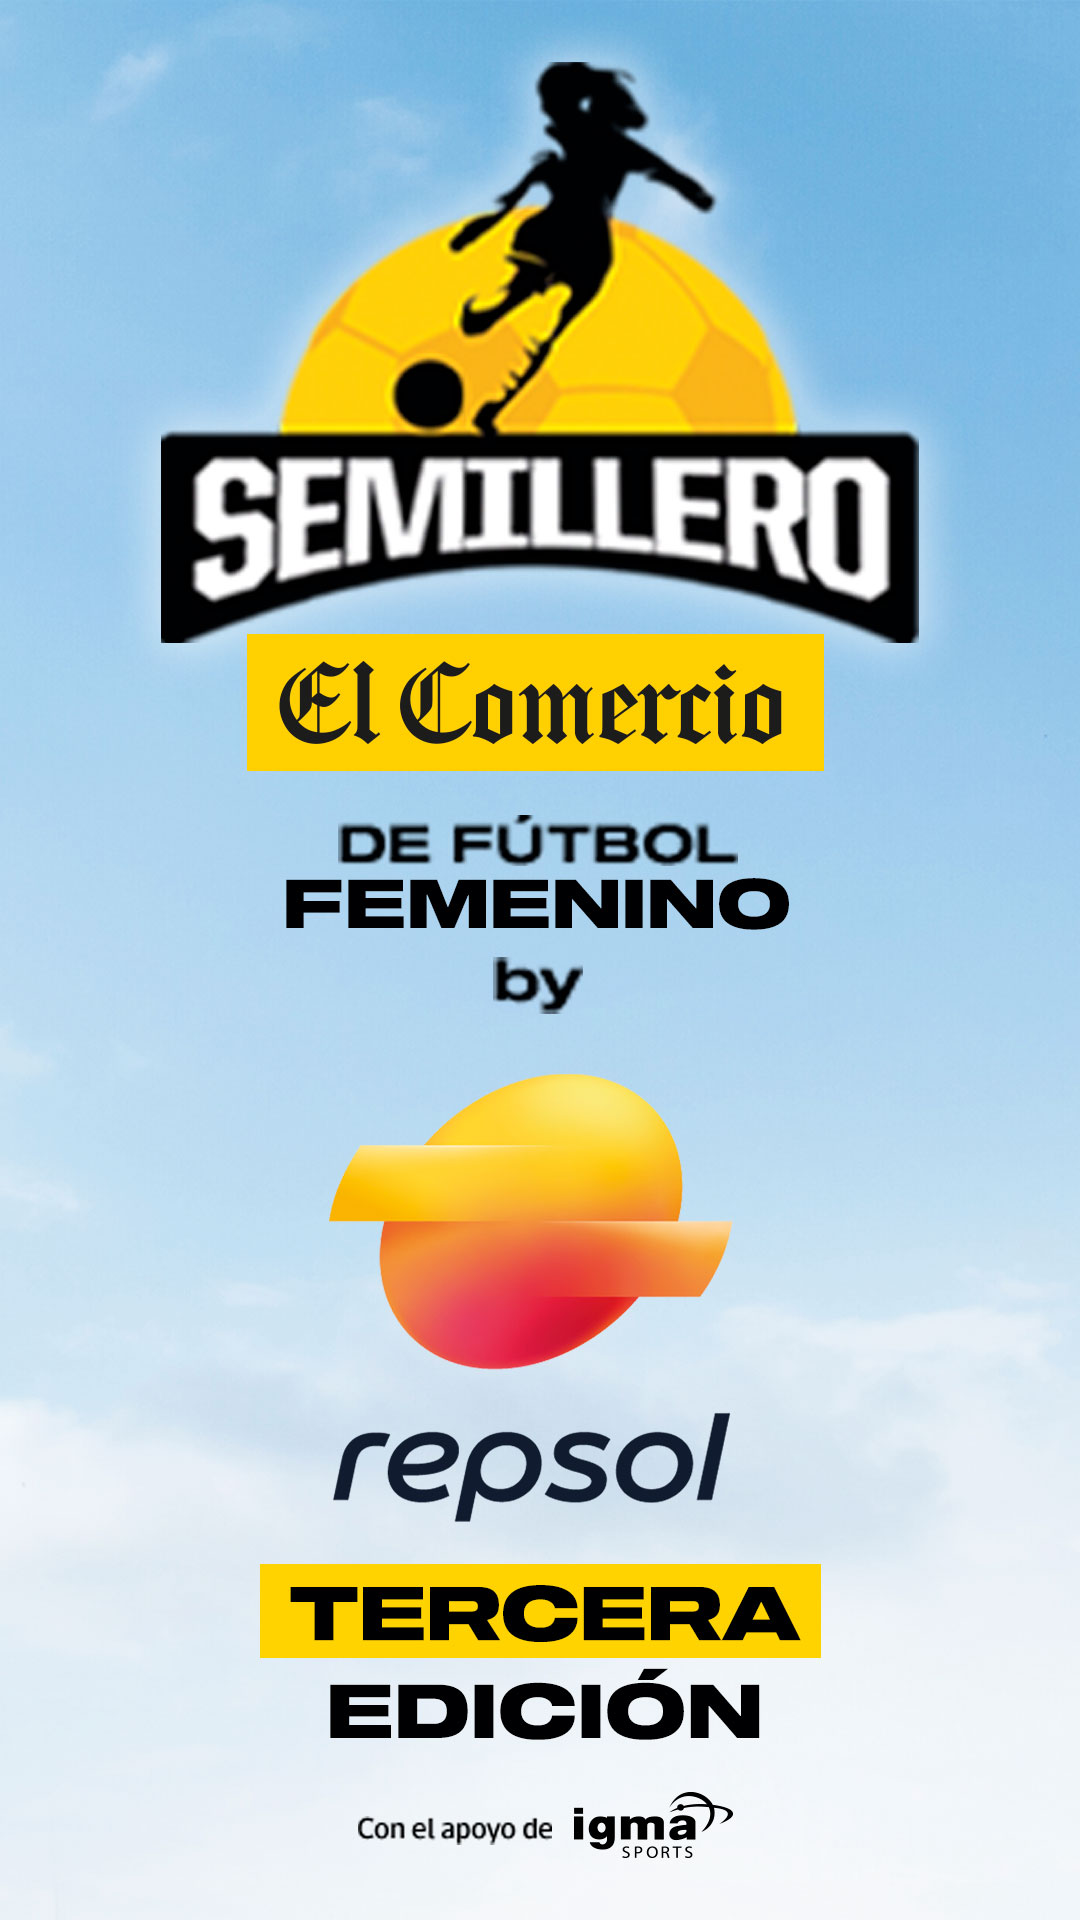
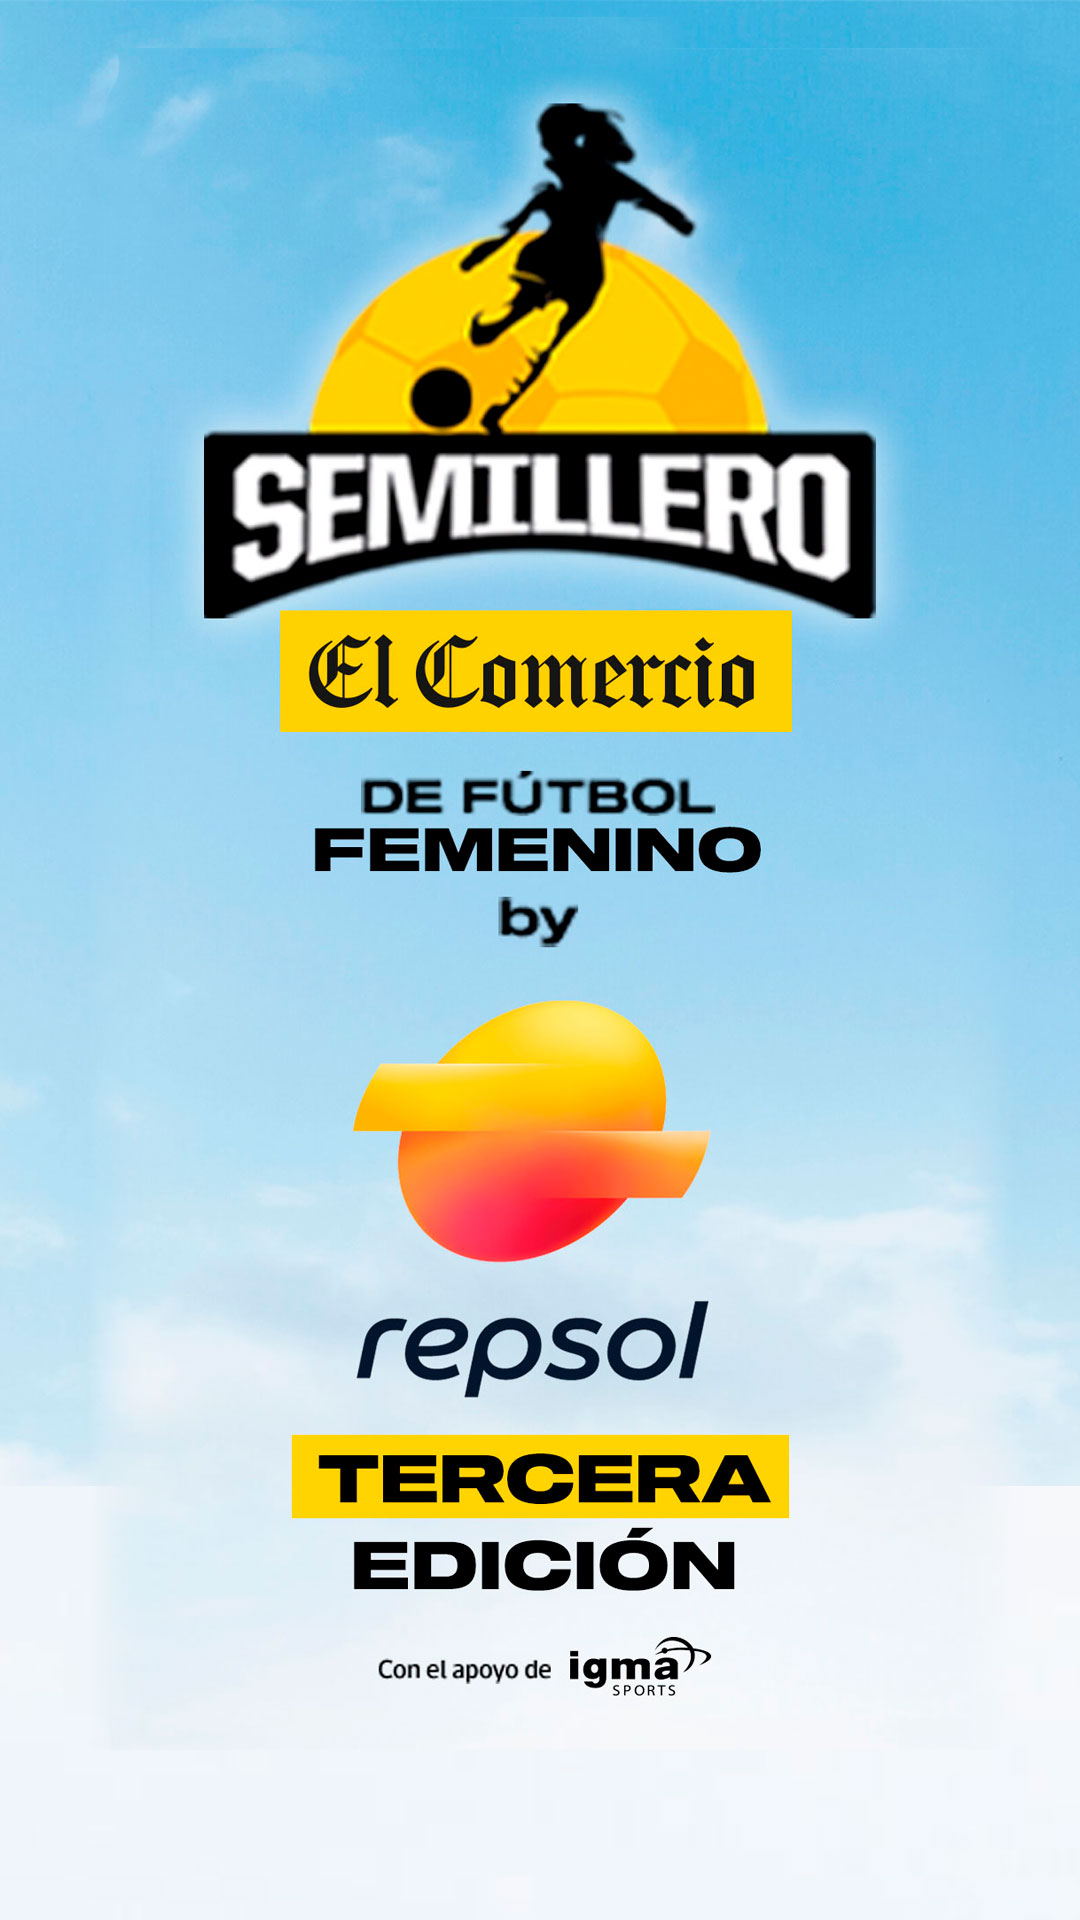
bg cielo movil 3

diff --git a/css/style.css b/css/style.css
@@ -155,13 +155,14 @@ body{
         padding: 10px;
     }
     body header .header-semillero {
-        background: url('https://nuevasnarrativasec.github.io/semillero-futbol-femenino-2026/img/bg-cielo-movil-3.jpg?v4') no-repeat center top;
+        background: url('https://nuevasnarrativasec.github.io/semillero-futbol-femenino-2026/img/bg-cielo-movil-3.jpg?v5') no-repeat center top;
         background-attachment: scroll;
         background-size: 100%;
     }
     .box-cesped {
         background: transparent;
         padding-top: 70vh;
+        transform: translate(0, -35px);
     }
     .box-info ul li{
         margin-bottom: 20px;
